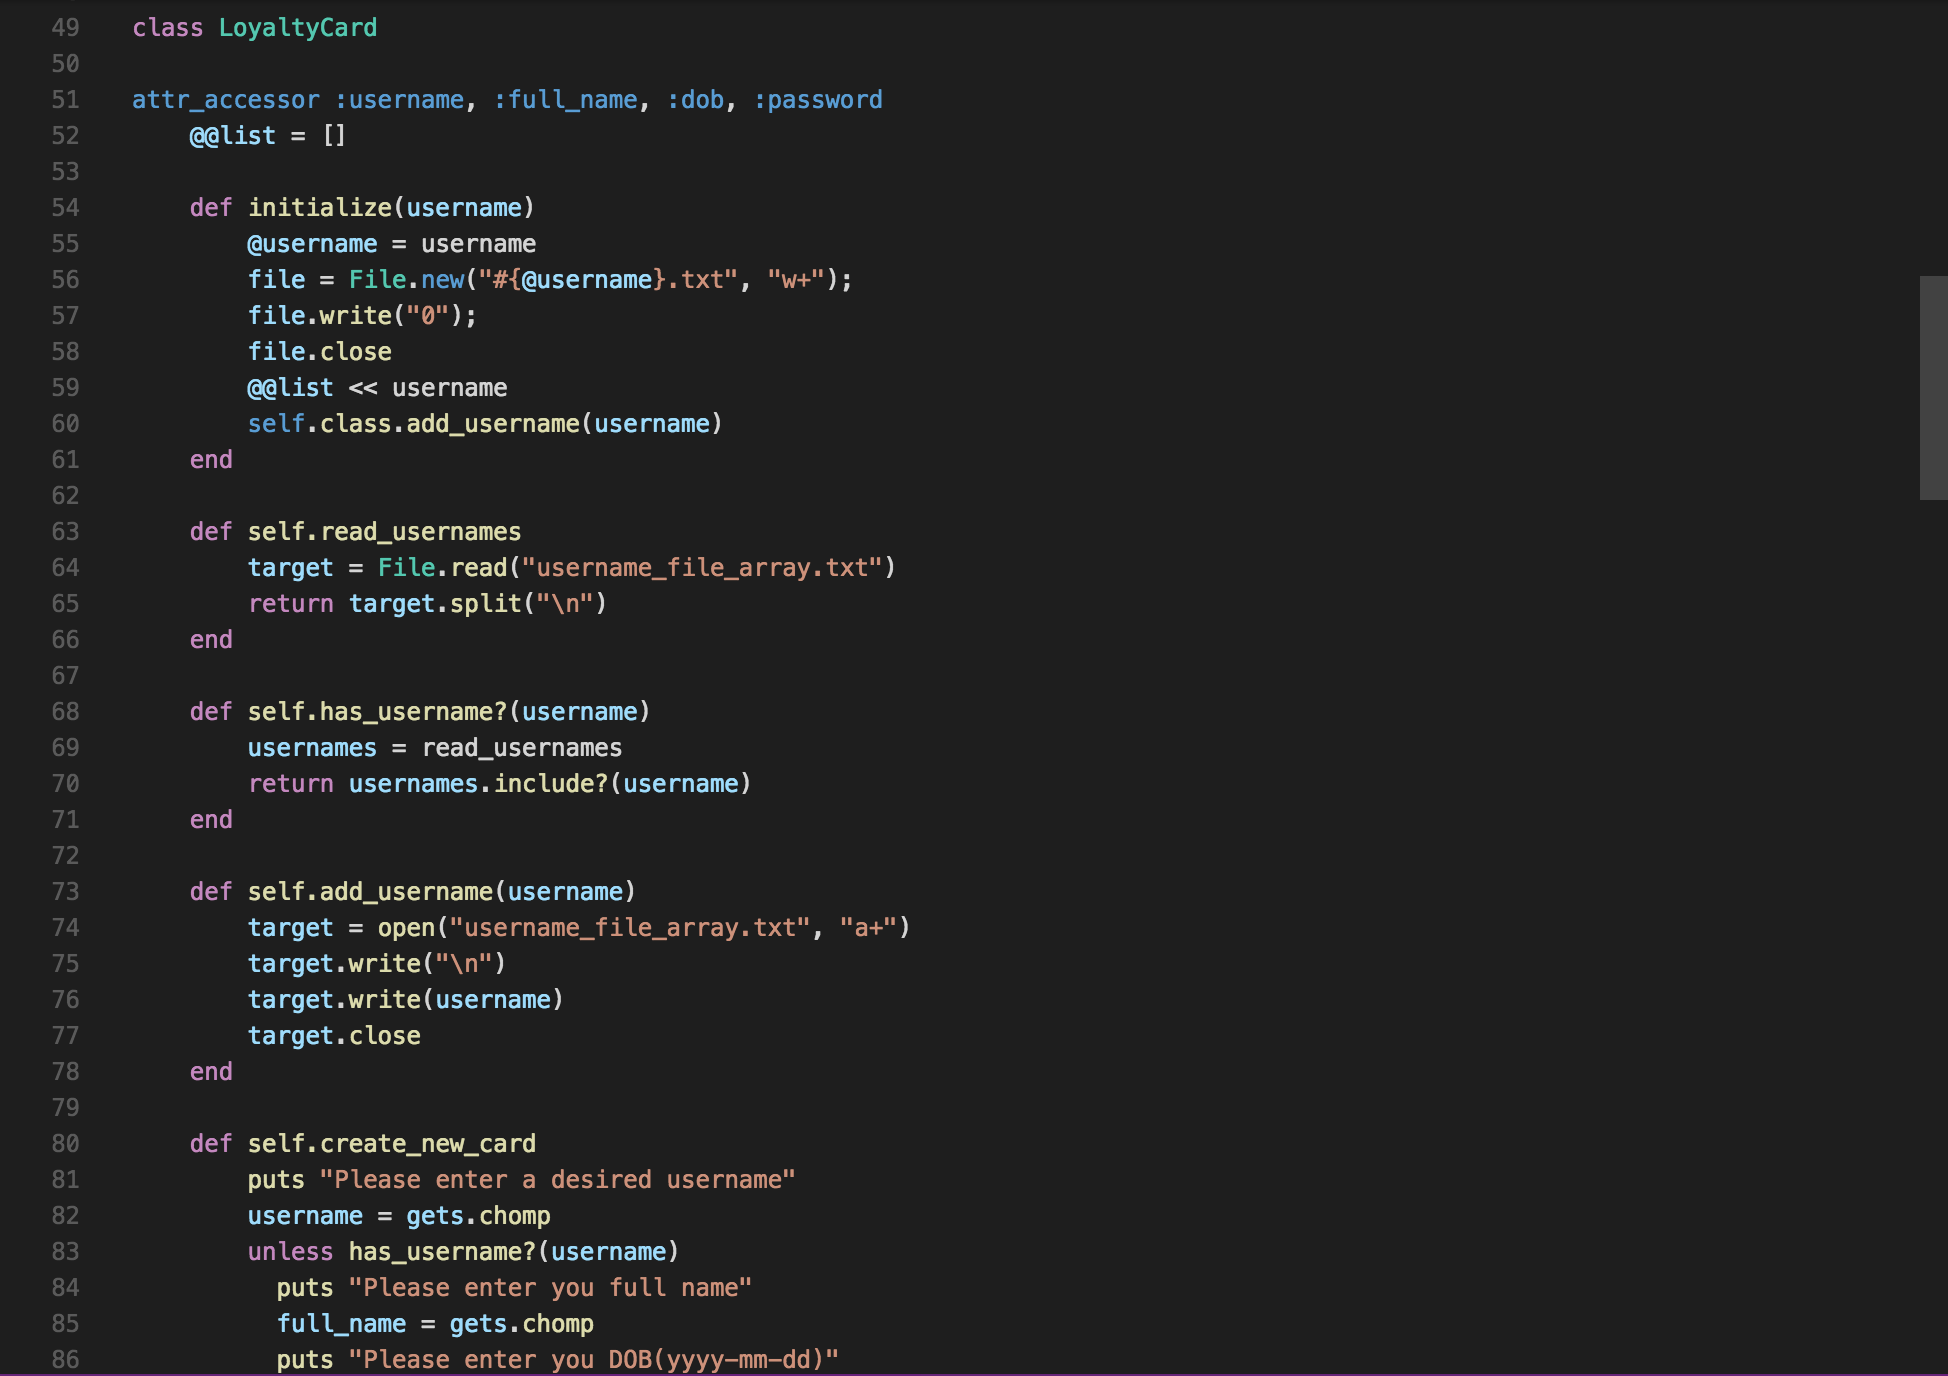
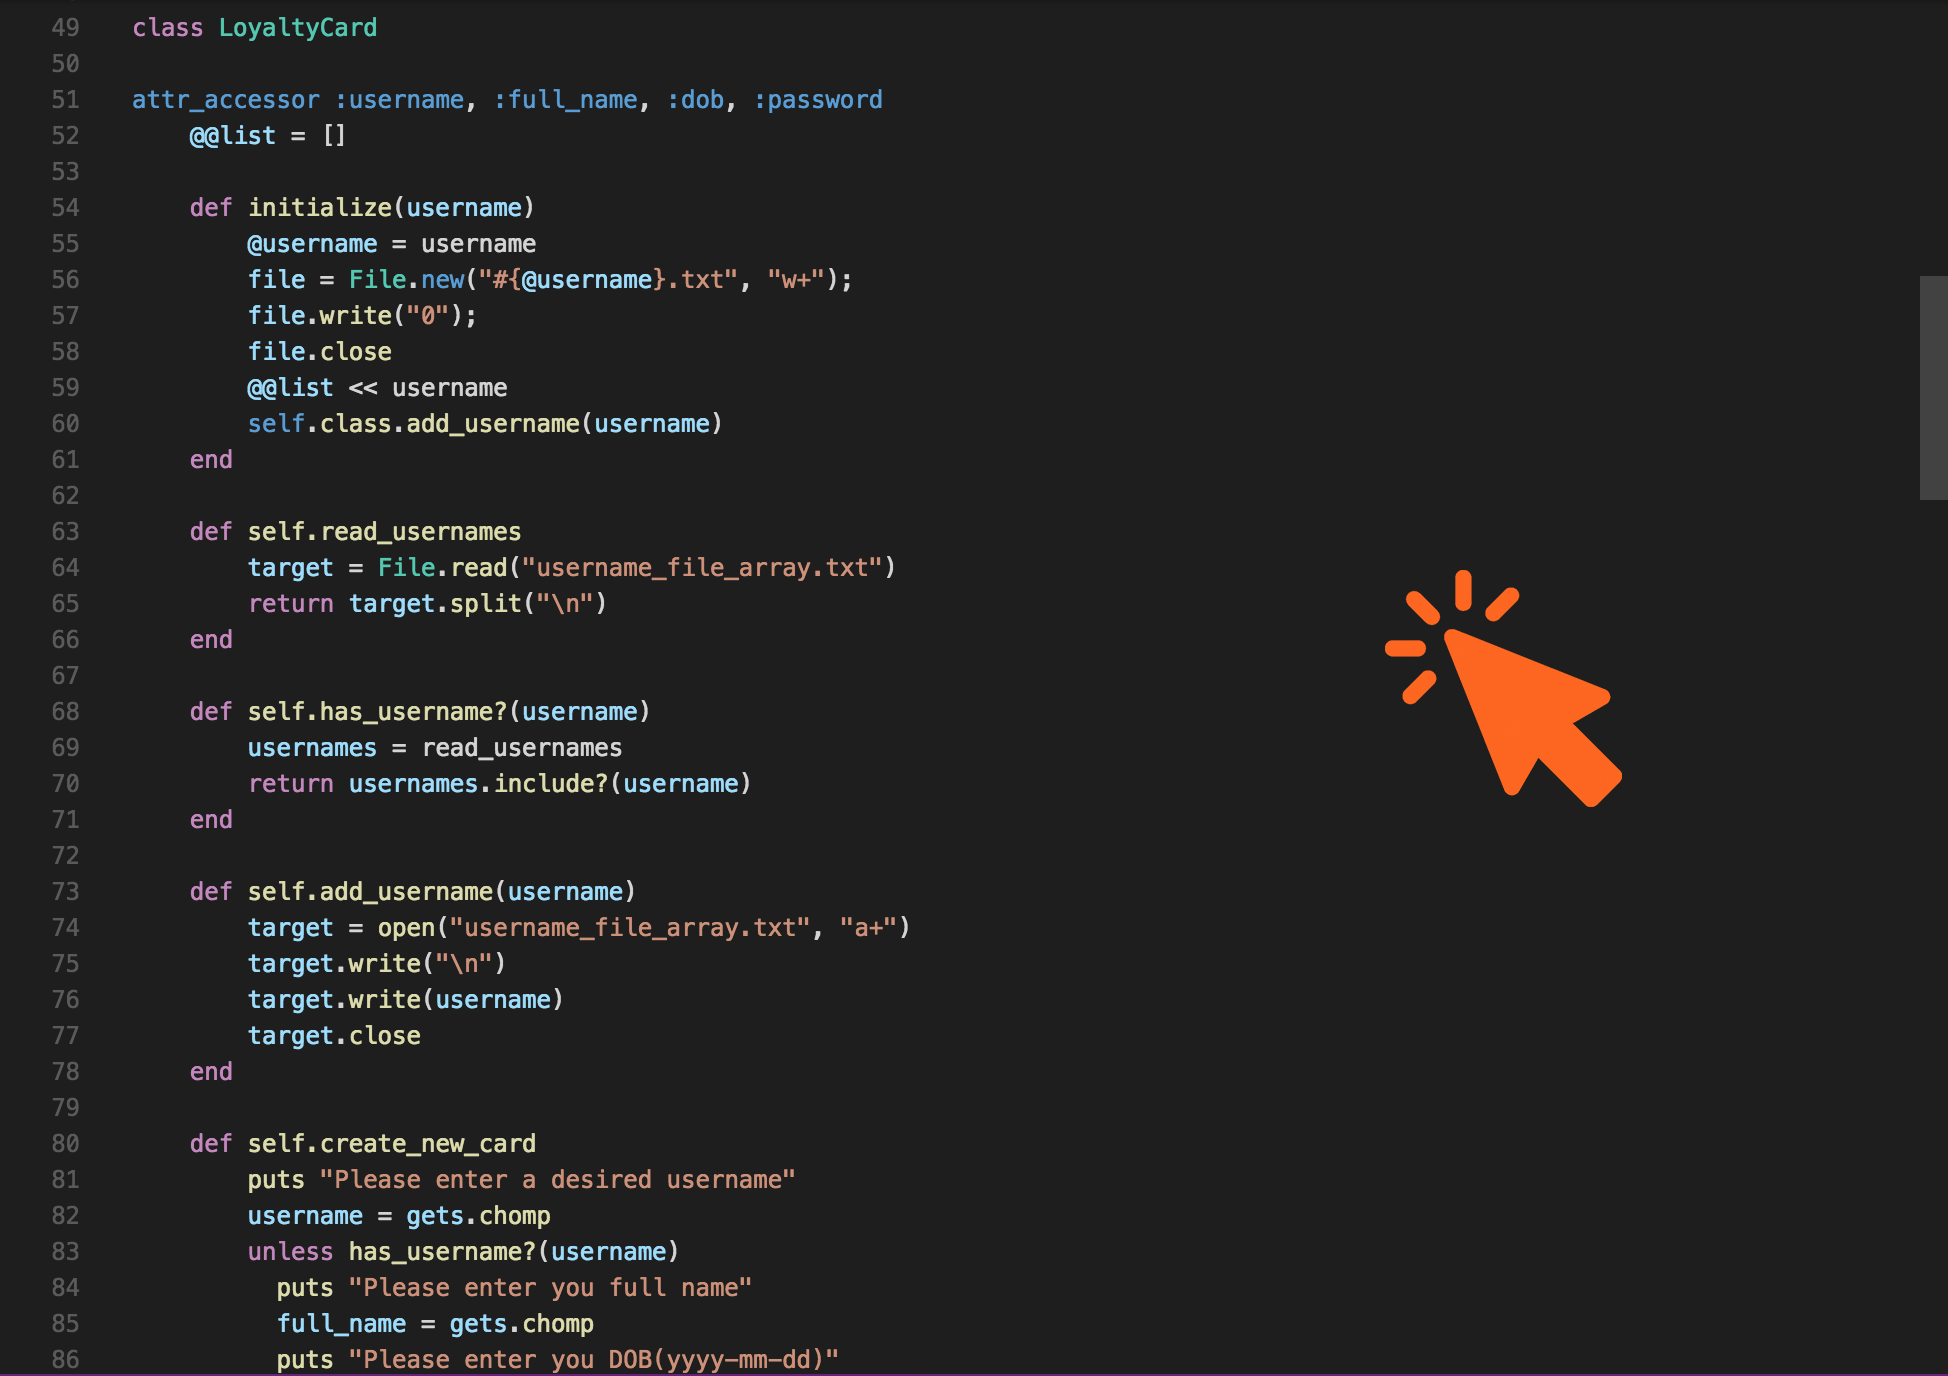
checking something new for fixed images on mobile and ipad

Changed region(s): [[0.7084, 0.4062, 0.8316, 0.5938]]

diff --git a/index.html b/index.html
@@ -3,7 +3,8 @@
     <head>
         <title>Vigi's Portfolio</title>
         <meta charset="UTF-8">
-        <meta name="viewport" content="width=device-width, initial-scale=1">
+        <!--<meta name="viewport" content="width=device-width, initial-scale=1">-->
+        <meta name="viewport" content="width=device-width, height=device-height, initial-scale=1.0, user-scalable=0, minimum-scale=1.0, maximum-scale=1.0">
         <link href="style.css" rel="stylesheet">
         
         <link href="https://fonts.googleapis.com/css?family=Julius+Sans+One" rel="stylesheet">
@@ -97,12 +98,13 @@
           <div class="projects">
             <div class="loyaltycard">
               <p>A Cafe loyalty app in ruby<br>[my first project]</p>
-              <a href="https://github.com/ifollowedthewhiterabbit/Loyalty-card" target="_blank"><img class="imgloyalty" src="images/loyaltycard.png" alt="loyaltycard"><img class="clicka" src="Icons/cursororange.png" alt="cickme"></a>
+              <a href="https://github.com/ifollowedthewhiterabbit/Loyalty-card" target="_blank"><img class="imgloyalty" src="images/loyaltycard.png" alt="loyaltycard"></a>
             </div>
             <p class="line">_______________________</p>
             <div class="stuckinspace">
-              <p>Stuck in Space - A simple command line ruby game </p>
-              <a href="https://github.com/ifollowedthewhiterabbit/Loyalty-card" target="_blank"><img class="imgspace" src="images/stuckinspace.png" alt="stuckinspace"><img class="clickb" src="Icons/cursororange.png" alt="cickme"></a>
+              <p>Stuck in Space <br>
+                      A simple command line ruby game </p>
+              <a href="https://github.com/ifollowedthewhiterabbit/Loyalty-card" target="_blank"><img class="imgspace" src="images/stuckinspace.png" alt="stuckinspace"></a>
             </div>
 
           </div>

diff --git a/style.css b/style.css
@@ -370,11 +370,6 @@ a, a:hover, a:focus {
   width: auto;
 }
 
-.clicka {
-  height: 3vh;
-  margin-left: -9vw;
-  margin-bottom: 7vh;
-}
 
 .stuckinspace {
   display: inline;
@@ -388,11 +383,6 @@ a, a:hover, a:focus {
   width: auto;
 }
 
-.clickb {
-  height: 3vh;
-  margin-left: -9vw;
-  margin-bottom: 7vh;
-}
 
 /*page 4*/
 .page4wrap {
